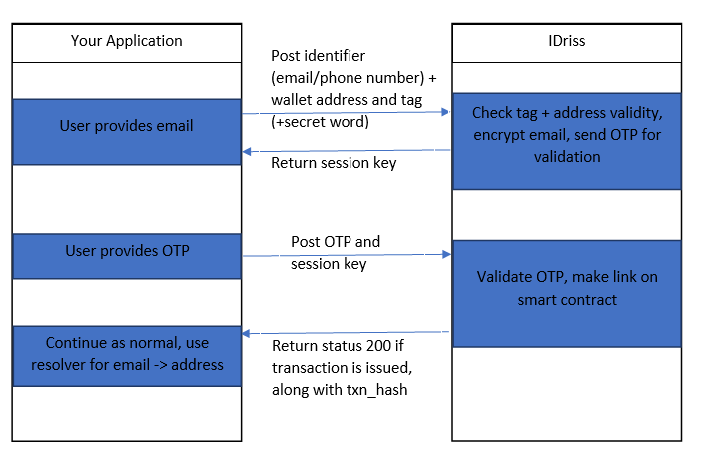
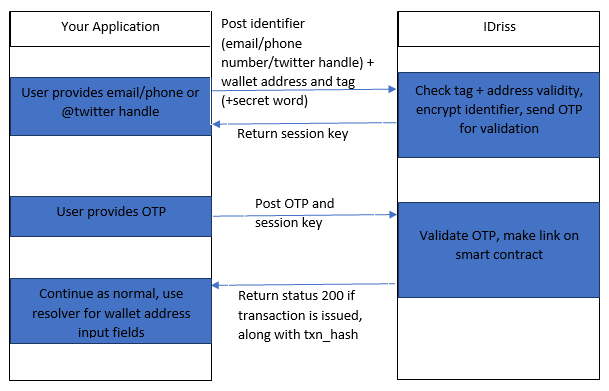
Added Twitter support and new endpoints

Changed region(s): [[0.0, 0.0307, 0.9984, 0.9821], [0.7176, 0.6445, 0.9048, 0.6752]]

diff --git a/tests/e2e/index.js b/tests/e2e/index.js
@@ -6,9 +6,10 @@ describe('translating address', () => {
         const resultEmail = await obj.resolve("hello@idriss.xyz")
         assert.equal(resultEmail["Metamask ETH"], "0x11E9F9344A9720d2B2B5F0753225bb805161139B")
         assert.equal(resultEmail["Coinbase BTC"], "bc1qsvz5jumwew8haj4czxpzxujqz8z6xq4nxxh7vh")
-        //const resultPhone = await obj.resolve("+16506655942")
-        //assert.equal(resultPhone["Metamask ETH"], "0x11E9F9344A9720d2B2B5F0753225bb805161139B")
-        //assert.equal(resultPhone["Coinbase BTC"], "bc1qsvz5jumwew8haj4czxpzxujqz8z6xq4nxxh7vh")
+        const resultPhone = await obj.resolve("+16506655942")
+        assert.equal(resultPhone["Phantom SOL"], "6GmzRK2qLhBPK2WwYM14EGnxh95jBTsJGXMgFyM3VeVk")
+        assert.equal(resultPhone["Essentials ELA"], "EL4bLnZALyJKkoEf99qjZMrKVresHU76JU")
+        assert.equal(resultPhone["Binance BTC"], "1FdqxZsS6HVEs1NaQUdkoQWKYA9R9yfhdz")
         const resultTwitter = await obj.resolve("@IDriss_xyz")
         assert.equal(resultTwitter["Metamask ETH"], "0x5ABca791C22E7f99237fCC04639E094Ffa0cCce9")
         assert.equal(resultTwitter["Coinbase ETH"], "0x995945Fb74e0f8e345b3f35472c3e07202Eb38Ac")
@@ -23,9 +24,9 @@ describe('translating address', () => {
         const resultEmail = await obj.resolve("hello@idriss.xyz", {network: "btc", coin: "BTC"})
         assert.equal(resultEmail["Coinbase BTC"], "bc1qsvz5jumwew8haj4czxpzxujqz8z6xq4nxxh7vh")
         assert(Object.keys(resultEmail).every(x => x.includes('BTC')))
-        //const resultPhone = await obj.resolve("+16506655942", {network: "evm", coin: "ETH"})
-        //assert.equal(resultPhone["Metamask ETH"], "0x11E9F9344A9720d2B2B5F0753225bb805161139B")
-        //assert(Object.keys(resultPhone).every(x => x.includes('ETH')))
+        const resultPhone = await obj.resolve("+16506655942", {network: "btc", coin: "ELA"})
+        assert.equal(resultPhone["Essentials ELA"], "EL4bLnZALyJKkoEf99qjZMrKVresHU76JU")
+        assert(Object.keys(resultPhone).every(x => x.includes('ELA')))
         const resultTwitter = await obj.resolve("@IDriss_xyz", {network: "evm", coin: "ETH"})
         assert.equal(resultTwitter["Metamask ETH"], "0x5ABca791C22E7f99237fCC04639E094Ffa0cCce9")
         assert(Object.keys(resultTwitter).every(x => x.includes('ETH')))
@@ -35,9 +36,9 @@ describe('translating address', () => {
         const resultEmail = await obj.resolve("hello@idriss.xyz", {coin: "BTC"})
         assert.equal(resultEmail["Coinbase BTC"], "bc1qsvz5jumwew8haj4czxpzxujqz8z6xq4nxxh7vh")
         assert.equal(Object.keys(resultEmail).length, 1)
-        //const resultPhone = await obj.resolve("+16506655942", {coin: "BTC"})
-        //assert.equal(resultPhone["Coinbase BTC"], "bc1qsvz5jumwew8haj4czxpzxujqz8z6xq4nxxh7vh")
-        //assert.equal(Object.keys(resultPhone).length, 1)
+        const resultPhone = await obj.resolve("+16506655942", {coin: "BTC"})
+        assert.equal(resultPhone["Binance BTC"], "1FdqxZsS6HVEs1NaQUdkoQWKYA9R9yfhdz")
+        assert.equal(Object.keys(resultPhone).length, 1)
         const resultTwitter = await obj.resolve("@IDriss_xyz", {coin: "ETH"})
         assert.equal(resultTwitter["Tally ETH"], "0xa1ce10d433bb841cefd82a43f10b6b597538fa1d")
         assert.equal(Object.keys(resultTwitter).length, 6)

diff --git a/readme.md b/readme.md
@@ -1,4 +1,4 @@
-It's a node.js and webpack library, that uses [IDriss-Crypto](https://www.idriss-crypto.com/) to translate e-mail addresses and phone numbers to cryptocurrency wallet addresses.
+It's a node.js and webpack library, that uses [IDriss](https://www.idriss.xyz/) to translate e-mail addresses, phone numbers and Twitter handles to cryptocurrency wallet addresses.
 
 ## Sample usage
 from cli
@@ -18,22 +18,55 @@ const {IdrissCrypto} = require("idriss-crypto");
 import {IdrissCrypto} from "idriss-crypto/lib/browser";
 
 const idriss = new IdrissCrypto();
-const result = await idriss.resolve("idrisssystem@gmail.com");
-console.log(result);
+const resultEmail = await idriss.resolve("hello@idriss.xyz");
+console.log(resultEmail);
 ```
 
 And output of this is:
 
 ```javascript
 {
-  'Trust SOL': 'GT2Cxwi6jf6H7g3qymapq3WDQPzmH5yJUa31AfDCh1uT',
-  'Metamask ETH': '0xcC428D15930F1d3752672B2A8AB7a9b1f2085BC8',
-  'Essentials ELA native': 'EXeRYLa7NqLTTc5LpqN16Gma1s6HRqJ5KU'
+    'Coinbase BTC': 'bc1qsvz5jumwew8haj4czxpzxujqz8z6xq4nxxh7vh',
+    'Metamask ETH': '0x11E9F9344A9720d2B2B5F0753225bb805161139B'
+}
+```
+
+The same is possible with Twitter handles:
+
+```javascript
+    const resultTwitter = await idriss.resolve("@idriss_xyz");
+    console.log(resultTwitter);
+```
+resolves in 
+```javascript
+{
+    'Metamask ETH': '0x5ABca791C22E7f99237fCC04639E094Ffa0cCce9',
+    'Coinbase ETH': '0x995945Fb74e0f8e345b3f35472c3e07202Eb38Ac',
+    'Argent ETH': '0x4B994A4b85378906B3FE9C5292C749f79c9aD661',
+    'Tally ETH': '0xa1ce10d433bb841cefd82a43f10b6b597538fa1d',
+    'Trust ETH': '0xE297b1E893e7F8849413D8ee7407DB343979A449',
+    'Rainbow ETH': '0xe10A2331Ac5498e7544579167755d6a756786a9F'
+}
+```
+
+And phone numbers:
+
+```javascript
+    const resultPhone = await idriss.resolve("+16506655942");
+    console.log(resultPhone);
+```
+resolves in 
+```javascript
+{
+    'Binance BTC': '1FdqxZsS6HVEs1NaQUdkoQWKYA9R9yfhdz',
+    'Essentials ELA': 'EL4bLnZALyJKkoEf99qjZMrKVresHU76JU',
+    'Phantom SOL': '6GmzRK2qLhBPK2WwYM14EGnxh95jBTsJGXMgFyM3VeVk'
 }
 ```
 ## Documentation
 
 ### Class IdrissCrypto
+### Resolve emails, phone numbers and Twitter handles to wallet addresses.
 #### constructor
 ```typescript
 type ResolveOptions = {
@@ -50,10 +83,10 @@ Params:
 ```typescript
 public async resolve(input: string, options:ResolveOptions = {}): Promise<{ [index: string]: string }>
 ```
-Converts input string (e-mail address or phone number) to wallets addresses. This method connects to IDriss-Crypto api server and then to endpoint defined in constructor.
+Converts input string (e-mail address, phone number or Twitter handle) to wallets addresses. This method connects to IDriss API server and then to endpoint defined in constructor.
 
 Params:
-* input (string) - e-mail address or phone number together with optional secret word
+* input (string) - e-mail address, phone number (starting with (+) country code) or Twitter handle (starting with "@") together with optional secret word
 * options (ResolveOptions object) - optional parameters
     * coin (string) - for example "ETH"
         * currently supported coins: ETH, BNB, USDT, USDC, ELA, TLOS, MATIC, LINK, HT, FSN, FTM, AVAX, BTC, SOL and one ERC20 wildcard
@@ -66,14 +99,14 @@ Params:
             * coin: BTC, ELA
         * network: sol
             * coin: SOL
-* supported networks and coins will be updated on a regular basis. Any  wishes regarding supported combinations? Please send them to idrisssystem@gmail.com
+* supported networks and coins will be updated on a regular basis. Any  wishes regarding supported combinations? Please join our [Discord](https://discord.gg/RJhJKamjw5) and let us know.
 
 Returns:
 Promise, that resolves to dictionary (object), in which keys are names addresses, and values are these addresses (see example). In case nothing was found, promise will resolve to empty object. If unknown network or coin (or combination) was provided, error returns. Example: "message": "Network not found."
 
 ### Class Authorization
+### Sign up new users with IDriss using this class. 
 
-Sign up new users with IDriss using this class. 
 
 <p align="center">
 <img src="img/signup.png" width=50% height=50%>
@@ -93,10 +126,10 @@ Example signup functionality in any application. The workflow should follow this
 
 Params:
 
-* tag (string) - identifier for wallet. See below for options. Contact us https://discord.gg/RJhJKamjw5 to add additional tags.
-* identifier (string) - email or phone number with country code
+* tag (string) - identifier for wallet. See below for options. Contact us on [Discord](https://discord.gg/RJhJKamjw5) to add additional tags.
+* identifier (string) - email, phone number with country code or @twitter handle (including "@")
 * address (string) - address to be linked with identifier+secret_word
-* secretWord(string, optional) - 
+* secretWord(string, optional) - to be appended to identifier when using the resolver
 
 
 returns:
@@ -113,20 +146,20 @@ example:
 ```typescript
 import {Authorization} from "idriss-crypto";
 
-const result = await Authorization.CreateOTP("Metamask ETH", "idrisssystem@gmail.com", "0xcC428D15930F1d3752672B2A8AB7a9b1f2085BC8")
+const result = await Authorization.CreateOTP("Metamask ETH", "hello@idriss.xyz", "0x11E9F9344A9720d2B2B5F0753225bb805161139B")
 console.log(result.sessionKey)
 ```
 
 
 available tags:
 
-* "Metamask ETH", "Binance ETH", "Coinbase ETH", "Exchange ETH", "Private ETH", "Essentials ETH",
+* "Metamask ETH", "Binance ETH", "Coinbase ETH", "Exchange ETH", "Private ETH", "Essentials ETH", "Rainbow ETH", "Argent ETH", "Tally ETH", "Trust ETH", "Public ETH",
 * "Essentials BTC", "Binance BTC", "Coinbase BTC", "Exchange BTC", "Private BTC",
 * "Metamask USDT", "Binance USDT", "Coinbase USDT", "Exchange USDT", "Private USDT", "Essentials USDT", 
-* "Metamask USDC", "Binance USDC", "Coinbase USDC",  "Exchange USDC", "Private USDC", "Essentials USDC", 
-* "Solana SOL", "Coinbase SOL", "Trust SOL", "Binance SOL",
+* "Metamask USDC", "Binance USDC", "Coinbase USDC", "Exchange USDC", "Private USDC", "Essentials USDC", 
+* "Solana SOL", "Coinbase SOL", "Trust SOL", "Binance SOL", "Phantom SOL",
 * "Metamask BNB", "Essentials BNB", 
-* "Essentials ELA", "Essentials ELA native",
+* "Essentials ELA SC", "Essentials ELA" (Smart Chain and native ELA network)
 * "Essentials TLOS", 
 * "Essentials MATIC", 
 * "Essentials LINK", 
@@ -176,3 +209,4 @@ try {
     }
 }
 ```
+Error is thrown if session is not valid anymore (more than 3 wrong OTPs), wrong OTP is provided, the transaction failed or the session key is unknown.
